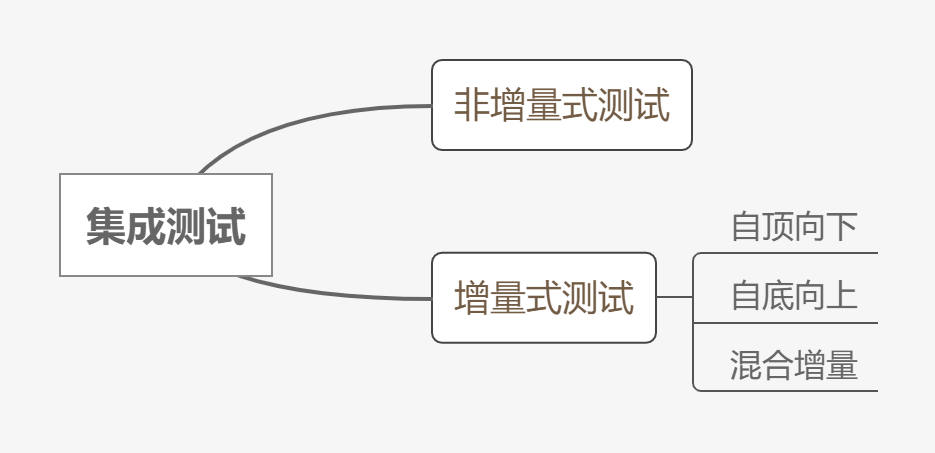
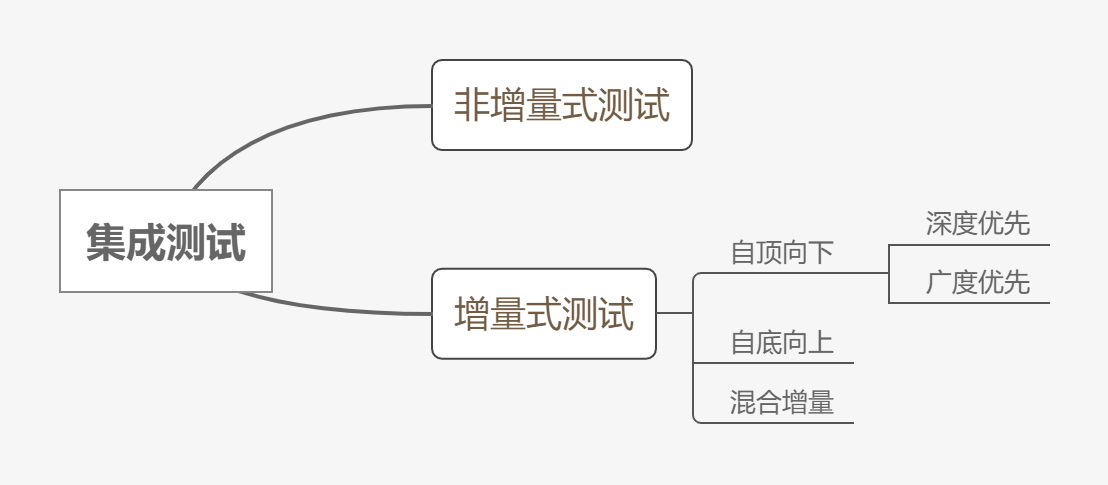
替换了一张图片。

Changed region(s): [[0.031, 0.1236, 0.9305, 0.7726], [0.6203, 0.7726, 0.9305, 0.8962], [0.4342, 0.2781, 0.7444, 0.34]]

diff --git a/第三章/3_2_集成测试详解.md b/第三章/3_2_集成测试详解.md
@@ -29,7 +29,7 @@
 
 ## 三、测试形式
 
-![集成测试](https://github.com/Lingggao/Software-Testing-Basics/blob/master/%E7%AC%AC%E4%B8%89%E7%AB%A0/3_2_%E9%9B%86%E6%88%90%E6%B5%8B%E8%AF%95.png?raw=true)
+<img src="https://github.com/Lingggao/Software-Testing-Basics/blob/master/%E7%AC%AC%E4%B8%89%E7%AB%A0/3_2_%E9%9B%86%E6%88%90%E6%B5%8B%E8%AF%95.png?raw=true" width = "70%" />
 
 ### :one: 非增量式测试
 
@@ -44,9 +44,10 @@
 
 假设待测试软件的各模块**结构图**如下：
 
+<img src="https://github.com/Lingggao/Software-Testing-Basics/blob/master/%E7%AC%AC%E4%B8%89%E7%AB%A0/3_2_%E7%BB%93%E6%9E%84%E5%9B%BE.png?raw=true" width = "40%" />
 
-
-1. 自顶向下：
+1. **自顶向下**：首先找到**主控模块**（亦称关键模块），主控模块通常至少具备以下特征之一：
+	- 
 
 ---
 
